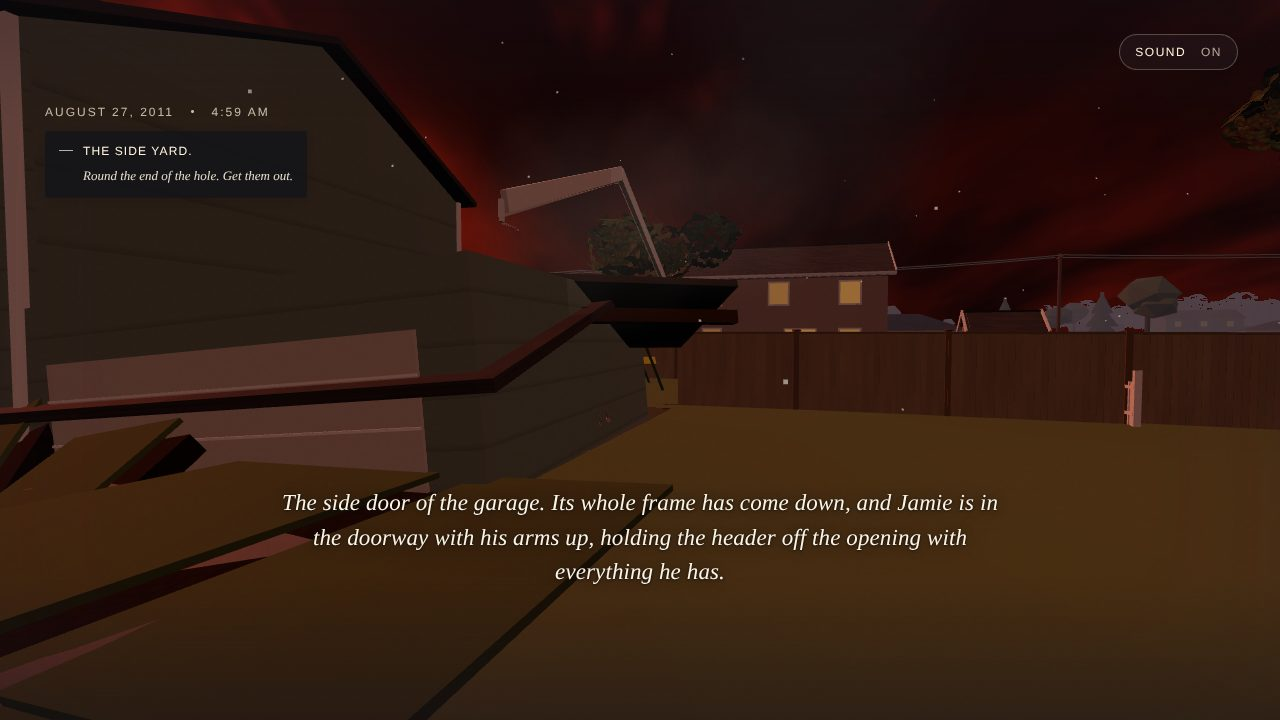
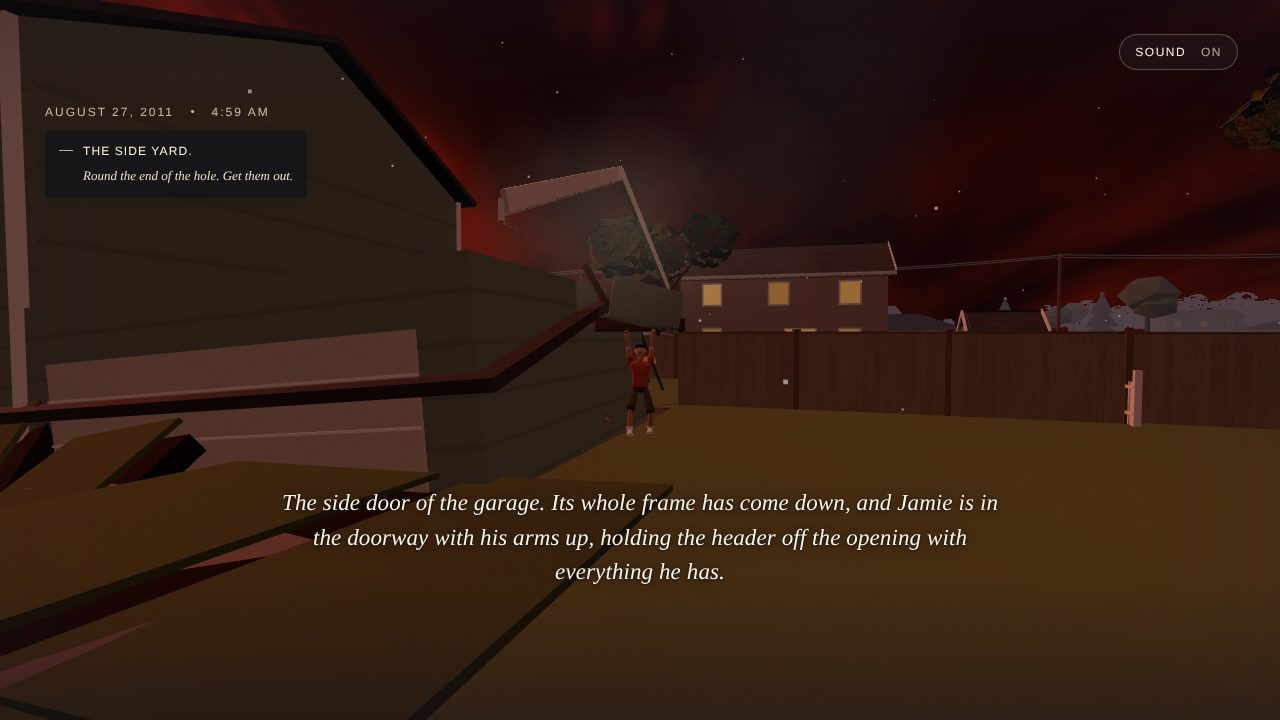
Chapter Eight reconstruction: visual review notes; refreshed street and finale captures
Claude-Session: https://claude.ai/code/session_01PuwzF4vprsiVDAz12NRA4H

Changed region(s): [[0.4375, 0.3667, 0.5938, 0.5194], [0.5, 0.55, 0.5312, 0.5806], [0.4688, 0.5806, 0.5, 0.6111]]

diff --git a/docs/qa/chapter8-reconstruction/VISUAL_REVIEW.md b/docs/qa/chapter8-reconstruction/VISUAL_REVIEW.md
@@ -1,0 +1,65 @@
+# Chapter Eight reconstruction: before/after visual review
+
+Every image here is a real capture from the game, made in headless Chromium on SwiftShader (software GL) at 1280×720 by
+the scripts named below, and looked at one by one. Software rendering is slower and a little flatter than a GPU, but
+the scene content, staging, faces and lighting are the game's own. Nothing was painted over or composited.
+
+- **Before**: `before/*.jpg`, the rejected draft at `c496d53`, by `tests/chapter8-baseline.mjs` (reviewed in
+  `BASELINE_AUDIT.md`).
+- **After (same fifteen moments)**: `after/*.jpg`, by `tests/chapter8-after.mjs` (same harness, same camera rules, the
+  moments re-found in the rebuilt scenes).
+- **After (the new beats, more angles)**: `after-street/*.jpg` (`tests/chapter8-street-defs.mjs`) and
+  `after-finale/*.jpg` (`tests/chapter8-finale-defs.mjs`), both run by `tests/chapter8-dev-shots.mjs`.
+
+Captions in the frames are the game's subtitles at that moment. A "Get on bike" prompt in some street frames is an
+artefact of the capture placing the camera on foot during the ride.
+
+## 1. The fifteen baseline moments
+
+See §3 for the table (filled from `after/shots.json` once captured; each row says what the frame shows now and whether
+the draft's problem is gone).
+
+## 2. The new beats, looked at
+
+### The street falls (Act V, first half)
+
+| Frame | What it shows | Verdict |
+|---|---|---|
+| `after-street/surface-drive.jpg` | From the cul-de-sac: the red deck over the whole town, smoke rising, lamps still on, the friends with you. | The sky reads as wrong and threatening. The friends' faces are flat here: captured before the face fix (see §4). |
+| `after-street/trench-go.jpg` | The road heaving into a hump, slabs lifting, the crack running toward you, dust. | Reads as the road failing. |
+| `after-street/trench-lean.jpg` | The trench open: broken slabs, the pole down across it with its wires, steam from the burst main, the house beyond. | Destruction reads as large and physical. (The lean itself happens a few seconds after this frame.) |
+| `after-street/death-sam.jpg` | Two of its limbs going up out of the ground beyond the houses into the red cloud, claws at their tips; the Kesslers' burning with its front open; the house at 1052 leaning. | Scale works. The limbs were salmon-coloured in this capture (before the skyline material fix); re-captured in `sky-*.jpg`. |
+| `after-street/hend-down.jpg` | Jamie on his back on the grass at the edge of the hole, his cap beside him, Sam standing over him. | The death is now on screen and unmistakable. |
+| `after-street/death-reyes.jpg` | Reyes on his knees over Jamie, doing CPR. | Reads as an adult trying to save a child. |
+| `after-street/hend-door.jpg`, `hend-drag.jpg` | First capture of the side door and the drag. | Showed two bugs, both fixed: Jamie was not in the doorway (he could not path into the garage; now placed there) and the "beam" was a huge plank in the air (now a door header with the frame and siding). Re-captured. |
+
+### The end (Act V, second half)
+
+| Frame | What it shows | Verdict |
+|---|---|---|
+| `after-finale/hatch-pinned.jpg` | Alex face down across the hatch's rim, the steel lid (no counterweight) across his back, his arms out on the grass; Sam and Reyes kneeling. | The injury's cause is visible: it is the lid, because of the chain. |
+| `after-finale/hatch-out.jpg` | Alex out on the grass after you and Sam lift the lid and pull him out. | Readable. |
+| `after-finale/oak-two.jpg` | Sam sitting against the oak beside Alex, holding his hand; the AR carving; dawn. | The two of them read as together. |
+| `after-finale/oak-sit.jpg` | Your view sitting in the grass in front of them: Sam with tear tracks and red eyes; Alex heavy-lidded and pale; your own legs in front of you. | Grief visible on faces (first time in this chapter). |
+| `after-finale/oak-sam.jpg` | Sam sobbing with his hand over his face; Alex crying. | The acting is there; this camera angle is poor (over Sam's shoulder). |
+| `after-finale/oak-after.jpg` | Alex slumped, Sam beside him: "Alex?" | The moment of his death reads. |
+| `after-finale/walk-trench.jpg` | On foot at dawn past the trench: broken slabs along the road, steam, the collapsed porch, the leaning house; a red-brown sky settling. | Destruction persists into the morning. |
+| `after-finale/ride-sam.jpg` | Sam on his bike beside you, crying (tear tracks), grey dawn. | Captured before the head-down riding posture was added. |
+| `after-finale/ride-summerfield.jpg` | The collapsed Summerfield intersection in a grey, hazy dawn, a police car, blown-out windows. | Earlier capture of this frame was a clear blue morning: fixed (smoky overcast dawn). |
+| `after-finale/ride-back.jpg` | Looking back up the street: dark smoke columns over the roofs, the Kesslers' shell still burning. | The look back shows what happened. |
+
+## 3. Before → after, the fifteen moments
+
+(Filled from `after/` below.)
+
+## 4. Problems found by looking, and what was done
+
+1. **The friends' faces were off in Chapter Eight.** The draft's reset switched off the shared character presentation
+   (faces) and nothing turned it back on. Every expression, tear and red eye in the reconstruction was invisible until
+   this was found by probing a face that "should" have been crying (`cry` weight 0). Fixed; the oak frames show it.
+2. **Alex invisible at the oak and in the well** (enlisted but never put on his feet). Fixed.
+3. **Sam standing at the oak** (the grief slump re-applied a standing pose over the scene's sitting one). Fixed.
+4. **Your own bike parked in shot** in the field. Fixed.
+5. **The skyline creature read as a pale grey boulder.** It now has its own dark material lit red from underneath.
+6. **The ride under a clear blue sky.** Now a low, smoky dawn with the red going out of it.
+7. **Jamie not in the side doorway; a crane-like plank in the air.** Fixed (placed; a real header).
